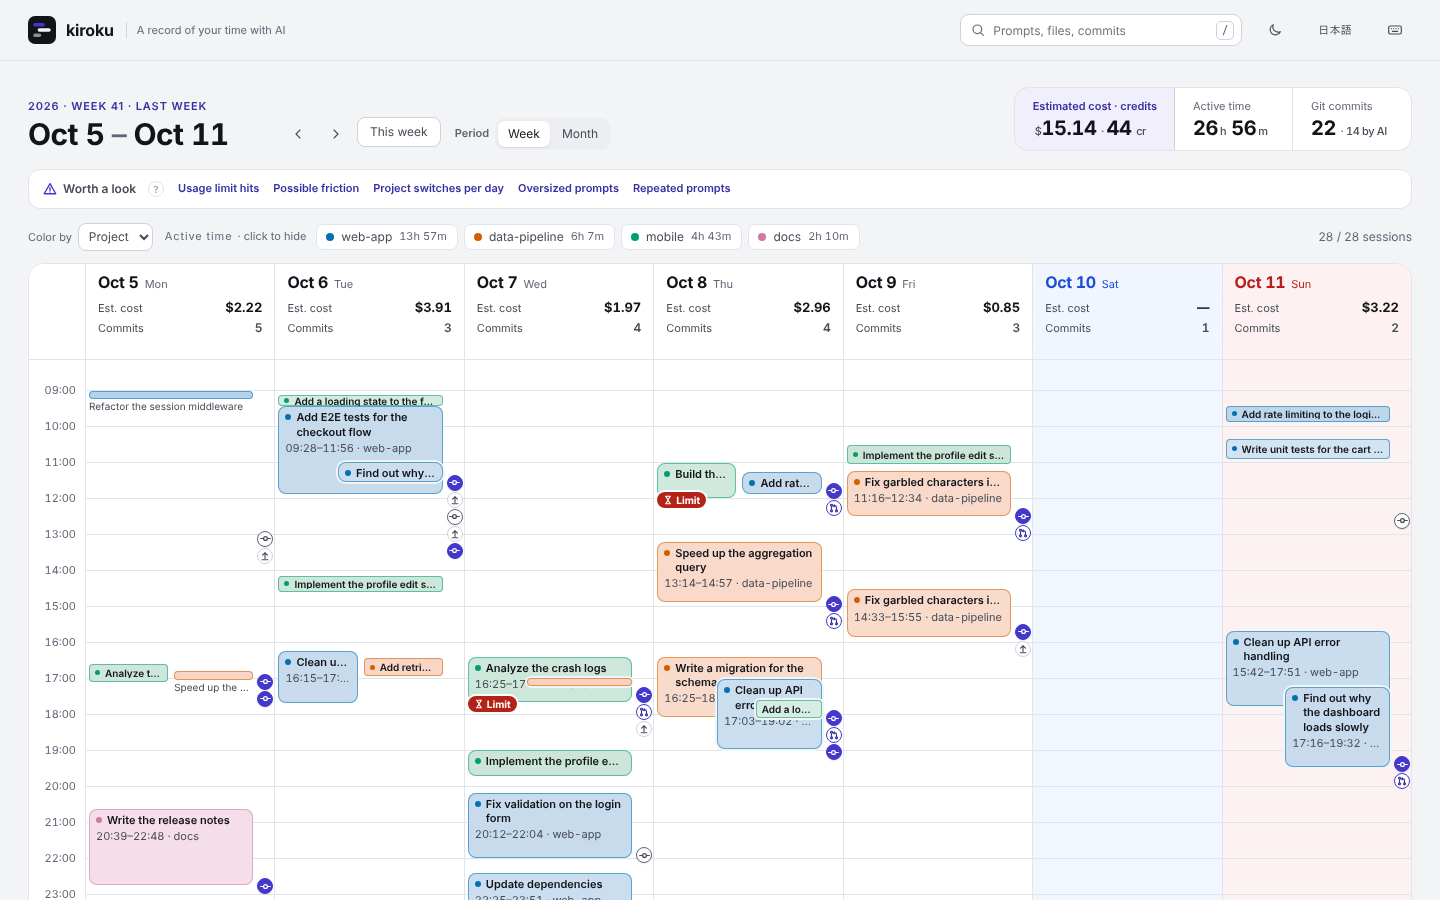
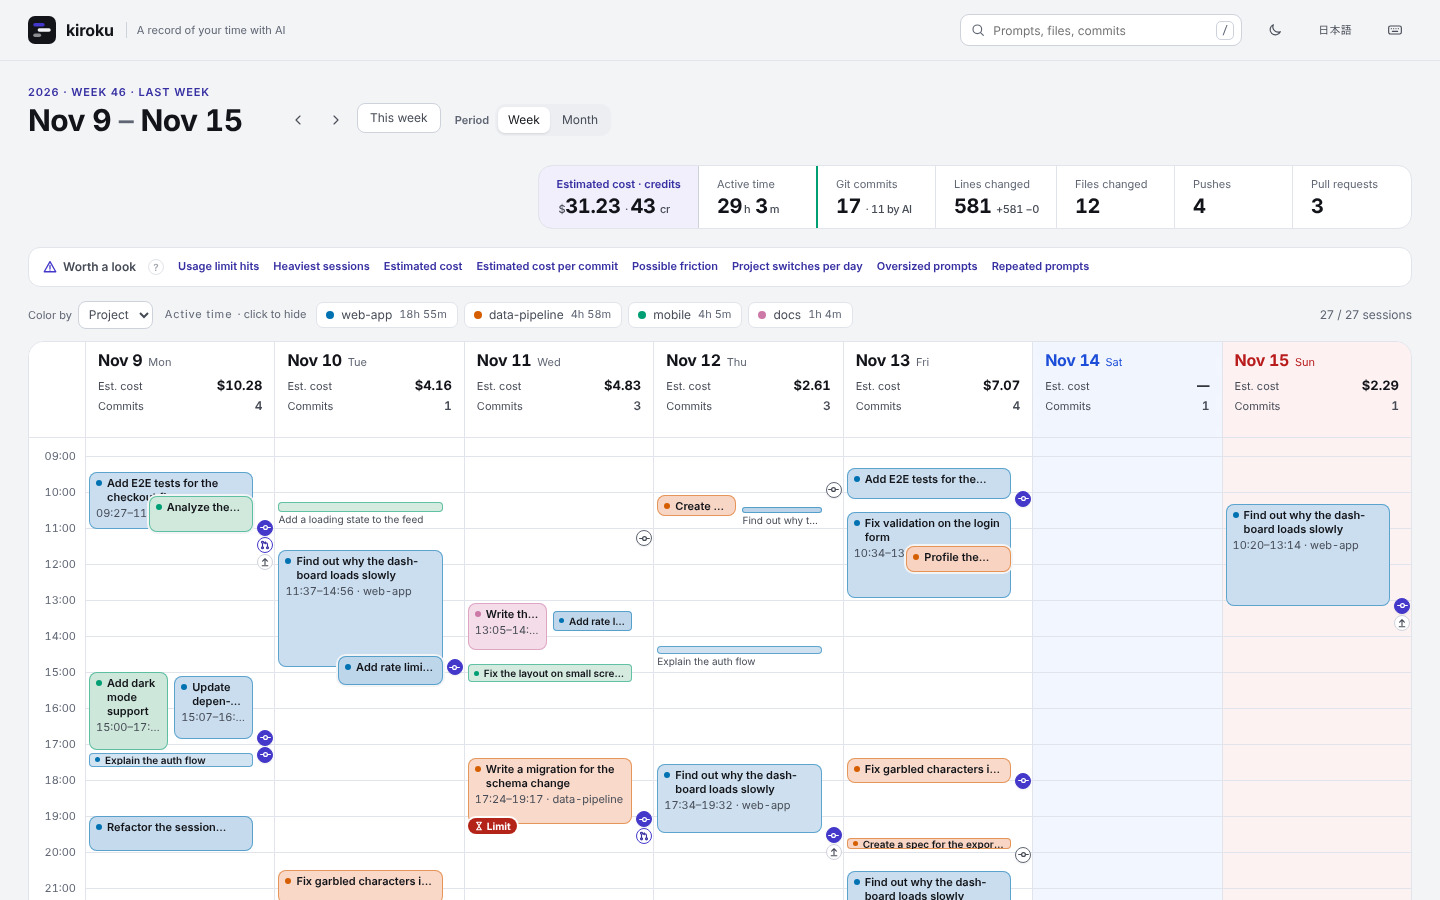
View: outputs in the figures above the calendar, fold the summary from ③
The figures above the calendar show what was left behind (Git or AI
commits, lines, files, pushes, pull requests) to the right of what was
used, after a green divider. In the summary, ③ How you spent time and the
panels after it are folded to their heading by default and remember
being opened; a flagged metric inside a folded panel marks its heading.

diff --git a/internal/web/js/summary.js b/internal/web/js/summary.js
@@ -17,7 +17,7 @@ function summary(){
   R.innerHTML = `${head}<div class="rvgrid">
   ${projectPanel(w, unit)}
   ${outcomePanel(w, pw, unit)}
-  <section class="panel time">${panelH(3, esc(t("How you spent time")), esc(t("When and how long sessions ran")))}
+  ${fold("time", panelH(3, esc(t("How you spent time")), esc(t("When and how long sessions ran"))), `
     <div class="stats">
       ${statH(esc(t("Focus blocks (60+ min)")), times(w.focus.length), longest ? esc(t("Longest {dur}", {dur: dur(longest)})) : "", "focus", w.focus.length ? "focus" : "")}
       ${(() => { const {ws, we} = period(), H = limitHits(ws, we), N = unrecorded(ws, we, "limits"); return N ? norecStat(esc(t("Usage limit hits")), N, "limits") : statH(esc(t("Usage limit hits")), times(H.length), esc(H.length ? H.slice(-4).map(h => h.r ? t("{time} (resets {r})", {time: `${md(h.t)} ${hm(h.t)}`, r: h.r}) : `${md(h.t)} ${hm(h.t)}`).join(TSEP()) + (H.length > 4 ? TSEP() + "…" : "") : t("From Claude Code, Codex and Kiro Crew history")), "limits", H.length ? "limits" : ""); })()}
@@ -30,19 +30,20 @@ function summary(){
       ${statH(esc(t("Parallel time")), dur(w.parallel,true), esc(t("Up to {n} at once", {n: w.maxConc})), "parallel", w.parallel ? "parallel" : "")}
       ${statH(esc(t("Wait time (median)")), secsH(w.waitMedian), esc(t("{replies} · 90th percentile {p}", {replies: plural(w.waitCount, "reply", "replies"), p: secs(w.waitP90)})), "wait", w.waitCount ? "wait" : "")}
       ${statH(esc(t("Total AI run time")), dur(w.ai,true), esc(t("Includes parallel runs")), "ai", "ai")}
-    </div>
-    </section>
-  <section class="panel aiuse">${panelH(4, esc(t("How you used AI")), esc(t("Cache, models and heavy sessions")))}
+    </div>`)}
+  ${fold("aiuse", panelH(4, esc(t("How you used AI")), esc(t("Cache, models and heavy sessions"))), `
     ${aiUsage(w, pw, unit) || noneH(esc(t("No token or credit records.")))}
-    ${nativeSection(w)}</section>
-  <section class="panel shape">${panelH(5, esc(M ? t("Shape of the month") : t("Shape of the week")), esc(t("Friction and repeated prompts")))}
+    ${nativeSection(w)}`)}
+  ${fold("shape", panelH(5, esc(M ? t("Shape of the month") : t("Shape of the week")), esc(t("Friction and repeated prompts"))), `
     ${w.friction.length ? secH(esc(t("Possible friction")), "friction") : ""}
     ${w.friction.length ? w.friction.map(f => sesCardH(sesById(f.id, f.title), `${sesMeta(f)} ${whyOf(f).map(x=>`<span class="tagx">${esc(x)}</span>`).join("")}`)).join("") : ""}
     ${repeatsOf(period().ws, period().we).length ? secH(esc(t("Repeated prompts")), "repeats") : ""}
     ${(() => { const {ws, we} = period(), RP = repeatsOf(ws, we); return RP.length ? RP.slice(0, 3).map(c => { const v = {n: c.n, s: c.ids.size, day: md(c.last)}; return sesCardH(sesById(c.id, snipOf(c.text, 90)), esc(M ? t("{n} times in {s} sessions this month · last on {day}", v) : t("{n} times in {s} sessions this week · last on {day}", v))); }).join("") : ""; })()}
-    ${w.friction.length || repeatsOf(period().ws, period().we).length ? "" : noneH(esc(t("No sessions with possible friction and no repeated prompts.")))}</section>
+    ${w.friction.length || repeatsOf(period().ws, period().we).length ? "" : noneH(esc(t("No sessions with possible friction and no repeated prompts.")))}`)}
   <section class="panel metap">${measure(w)}${foot()}</section></div>`;
   placeFlags(R, F);
+  R.querySelectorAll("details.fold").forEach(d => { d.ontoggle = () => store.set("fold:" + d.dataset.fold, d.open); // 開け閉めを覚える
+    d.querySelector("summary").addEventListener("click", e => { if (e.target.closest(".hb, .fmark")) e.preventDefault(); }); }); // 見出しの「?」と印は、開け閉めしない
   R.querySelectorAll(".card,.fses").forEach(c => c.onclick = () => select(c.dataset.id));
   WK.querySelectorAll("[data-goto]").forEach(b => { b.setAttribute("aria-haspopup", "dialog"); b.onclick = () => openWorth(b.dataset.goto, b); });
   R.querySelectorAll(".fmark").forEach(b => b.onclick = () => openWorth(b.dataset.goto, b));
@@ -56,6 +57,9 @@ function summary(){
   bindCopy(R); bindCopy(RB); bindHelp(R); bindHelp(WK); bindReport(R);
   if (hpopFor && !hpopFor.isConnected) hideHint(); // 描き直しで、説明を開いた ? が消えた
 }
+/* ③ 時間の使い方から下のパネルは、既定で閉じる（ページの主役はカレンダー。開けたものは開けたまま覚える）。
+   閉じたパネルの中に基準を超えた指標があれば、placeFlags が見出しに印を出す */
+const fold = (key, head, body) => `<details class="panel fold ${key}" data-fold="${key}"${store.get("fold:" + key, false) ? " open" : ""}><summary>${head}${ico("caret", "fcar")}</summary>${body}</details>`;
 /* 期間の言い方（unit は "週" か "月"） */
 const uThis = unit => unit === "月" ? "this month" : "this week";
 const uLast = unit => unit === "月" ? "last month" : "last week";

diff --git a/internal/web/js/calendar.js b/internal/web/js/calendar.js
@@ -101,7 +101,7 @@ function kpis(){
     return kpi(all ? t(M ? "Past last month's total" : "Past last week's total") : t(M ? "A day to match last month" : "A day to match last week"), v,
       all ? t(M ? "Last month's total was {v}" : "Last week's total was {v}", {v: ref}) : t(M ? "To stay at last month's total of {v}, for the {n} left" : "To stay at last week's total of {v}, for the {n} left", {v: ref, n: plural(pc.left, "day")}), "key", pc.cost ? "pace" : "paceCr"); };
   const pace = pj ? t("If the pace of the first {n} days continues", {n: pj.days}) : "";
-  // 帯は日々の判断に使う 5 つ前後だけ：使用量（推定費用とクレジット）・前の期間並みの 1 日の目安・月末の推定（月）・稼働時間・残したもの（コミット）。
+  // 帯は日々の判断に使う数だけ：左に使ったもの（推定費用とクレジット・前の期間並みの 1 日の目安・月末の推定（月）・稼働時間）、右に残したもの（outK）。
   // 稼働日・セッション / プロンプト・利用上限への到達は振り返りの数なので、サマリーと「見直す候補」に任せる（帯が多いとカレンダーと主役を争う）。
   // 推定費用とクレジットは別の枠の使用量なので足さずに、1 つの枠に「 · 」で並べる。トークンは推定費用を出せないときだけ
   const c = u.tokens ? costOf(u) : null, two = (a, b) => [a, b].filter(Boolean).join(`<small> · </small>`);
@@ -112,11 +112,22 @@ function kpis(){
     (pc ? paceK() : "") +
     (pjV ? kpi(t(pj.cost != null && pj.credits != null ? "Month-end (estimate)" : pj.cost != null ? "Month-end cost" : "Month-end credits"), pjV, pace, "key", pj.cost != null ? "projection" : "projectionCr") : "") +
     kpi(t("Active time"), dur(w.active, true), n0 == null ? "" : M ? t("{days} of the {n} so far (this month is still in progress)", {days, n: plural(nd, "day")}) : t("{days} of the {n} so far (this week is still in progress)", {days, n: plural(nd, "day")}), "", "active") +
-    (w.git && w.git.commits ? kpi(t("Git commits"), `${w.git.commits}<small> · ${esc(t("{n} by AI", {n: w.git.ai}))}</small>`, "", "", "commits") :
-     w.outputs && w.outputs.commits ? kpi(t("AI commits"), `${w.outputs.commits}`) : "");
+    outK(w, kpi);
   K.querySelectorAll("[data-metric]").forEach(b => b.onclick = () => openMetric(b.dataset.metric, b));
 }
 
+/* 帯の右側：残したもの（アウトプット）。コミット・変えた行・ファイル・push・PR。git を読めないときは AI のコミットだけ。
+   左の使ったもの（費用・稼働時間）と並べて、使った分が何か残したかを、カレンダーを見る前に 1 行で */
+function outK(w, kpi){
+  const g = w.git && w.git.commits ? w.git : null, o = w.outputs || {}, G = periodGit(), n = commas, out = "out";
+  return [
+    g ? kpi(t("Git commits"), `${g.commits}<small> · ${esc(t("{n} by AI", {n: g.ai}))}</small>`, "", out, "commits") : o.commits ? kpi(t("AI commits"), `${o.commits}`, "", out, "aiCommits") : "",
+    g ? kpi(t("Lines changed"), `${n(g.added + g.removed)}<small> +${n(g.added)} −${n(g.removed)}</small>`, "", out, "lines") : "",
+    g && G.files ? kpi(t("Files changed"), n(G.files), "", out, "files") : "",
+    G.pushes ? kpi(t("Pushes"), `${G.pushes}`, "", out, "pushes") : "",
+    o.prs ? kpi(t("Pull requests"), `${o.prs}`, "", out, "prs") : "",
+  ].join("");
+}
 /* カレンダーの各日（月表示では各週も）に並べるのは 2 つだけ：使用量（推定費用。見積もれないならトークン、トークンがなければクレジット）と Git のコミット。
    費用と残したものを上下に並べ、費用が増えても残したものが増えていない日を、カレンダーを見るだけで拾えるようにする。
    作業時間は週では帯の長さ・月ではマスの濃さ、セッションは帯の数で見えるので、数は日のツールチップに（トークン・クレジットも）。

diff --git a/internal/web/style.css b/internal/web/style.css
@@ -93,6 +93,7 @@ kbd{font:var(--fs-xs)/1 var(--mono);padding:3px 5px;border-radius:5px;border:1px
 .kpi.key{background:var(--acc-soft)} /* いちばん大事な数（トークン・目安コスト・月末の推定・クレジット） */
 .kpi.key .k{color:var(--acc-ink);font-weight:600}
 .kpi.key+.kpi:not(.key){border-left-color:var(--rule-2)}
+.kpi:not(.out)+.kpi.out{border-left:2px solid var(--c2)} /* 使ったもの（左）と残したもの（右）の境目。サマリーの「残したもの」と同じ緑 */
 button.kpi{text-align:left;transition:background .15s var(--ease)} /* 押すと内訳（metric.js） */
 button.kpi:hover{background:var(--surface-2)}button.kpi.key:hover{background:color-mix(in oklab,var(--acc) 18%,var(--surface))}
 button.kpi:focus-visible{outline:2px solid var(--acc);outline-offset:-2px}
@@ -298,6 +299,16 @@ a.pill{display:inline-flex;align-items:center;text-decoration:none}
 
 .pout{font-size:var(--fs-sm);font-variant-numeric:tabular-nums;color:var(--ink)}.pout span{color:var(--ink-3)}
 .panel.metap{grid-column:1/-1}
+/* ③ から下の折りたたみのパネル。閉じていれば見出しの 1 行だけ。横いっぱいに積む */
+.panel.fold{grid-column:1/-1;padding-top:14px;padding-bottom:14px}
+.panel.fold>summary{display:flex;align-items:center;gap:10px;cursor:pointer;list-style:none;border-radius:8px}
+.panel.fold>summary::-webkit-details-marker{display:none}
+.panel.fold>summary .ph{flex:1;margin:0;min-width:0;flex-wrap:wrap}
+.panel.fold>summary .fcar{flex:none;width:14px;height:14px;stroke:var(--ink-3);fill:none;stroke-width:1.8;transition:transform .2s var(--ease)}
+.panel.fold[open]>summary .fcar{transform:rotate(90deg)}
+.panel.fold>summary .fcar{order:2}
+.panel.fold[open]{padding-bottom:22px}.panel.fold[open]>summary{margin-bottom:10px}
+.panel.fold>summary:focus-visible{outline:2px solid var(--acc);outline-offset:4px}
 .panel.metap .foot{margin-top:12px} /* 計測の状態と生成時刻：ページのいちばん下 */
 .dsrc summary{display:flex;align-items:center;gap:8px;cursor:pointer;list-style:none}.dsrc summary::-webkit-details-marker{display:none}
 .dsrc .dsc{width:12px;height:12px;stroke:var(--ink-3);fill:none;stroke-width:1.8;transition:transform .2s var(--ease)}.dsrc[open] .dsc{transform:rotate(90deg)}

diff --git a/docs/guide.md b/docs/guide.md
@@ -71,9 +71,10 @@ The old forms `kiroku --serve`, `--json`, `-o` and `--weekly` / `--monthly` have
   - Active time shows as the length of the bars in the week calendar, and as the shading in the month calendar (thin bars show the project breakdown). Point at a day or week for its active time, sessions, tokens, estimated cost and credits
   - In a week in progress, each day still to come in the week calendar shows "To match" in a dashed box: about how much a day keeps the week at last week's total (see "A day to match the last period" in the metrics table)
 - The calendar describes recorded activity, not progress, completion or productivity
-- Above the calendar, five figures at most, for deciding what to do next (see the metrics table). Items with no records are not shown; when the figures don't fit next to the period's name, they move to their own row, and continue on a second row rather than being cut off
+- Above the calendar, the figures for deciding what to do next (see the metrics table): what you used on the left, what it left behind on the right. Items with no records are not shown; when the figures don't fit next to the period's name, they move to their own row, and continue on a second row rather than being cut off
   - On a tinted background: usage (estimated cost and Kiro credits side by side in one box, such as "$37.32 · 80 cr"; tokens instead of the cost when no model used is in the price table), A day to match last week (or month) while the week or month is in progress, and Month-end (estimate) in the month view while the month is in progress. A box that shows both cost and credits opens the cost's breakdown, which links to the credits' breakdown
-  - Then Active time and Git commits with how many AI ran, such as "22 · 14 by AI"
+  - Then Active time
+  - After a green divider, what it left behind: Git commits with how many AI ran (such as "22 · 14 by AI"; AI commits when no Git repository could be read), lines changed, files changed, pushes and pull requests created
   - Prompts (with sessions) and usage limit hits are in the summary and open the same breakdowns from there; limit hits are also in "Worth a look". Active days are in the Active time breakdown
 - Click a key figure, or any figure in the summary's panels, to open its breakdown in a dialog. What the metric counts is right under the figure; the finer points and what it doesn't tell you are at the end:
   - Most figures: by day, by agent, by project and, for tokens and estimated cost, by model, then the top sessions (press one to open its details). The day, agent, project and model rows come from the same totals as the figure, so they add up to it; the session figures cover each whole session, including any part outside the period
@@ -102,7 +103,7 @@ The old forms `kiroku --serve`, `--json`, `-o` and `--weekly` / `--monthly` have
   - A session's "Files edited by AI": a file changed by a commit made during that session opens the page for that file as of that commit
   - A session's "Pull requests created": opens pull requests created by AI (URLs that appeared in the results of `gh pr create` or GitHub tools)
   - A session's "History file": opens the original history of that session. In `kiroku serve`, "Open" saves it from the view (only history files of loaded sessions, inside the folders kiroku reads history from or `kiroku archive`'s folder, are served, and only to the view on your machine); in `kiroku html` it opens via `file://`. SQLite histories cannot be opened, so you can only copy the path
-- Below the calendar, the weekly and monthly summary is shown
+- Below the calendar, the weekly and monthly summary is shown. ① and ② are open; ③ and the panels after it are folded to their heading (the calendar is the main view). Press a heading to open it; kiroku remembers which ones you opened. A folded panel that holds a metric past its threshold shows the warning triangle on its heading
   - Worth a look: a metric that crossed a threshold has a small warning triangle next to its name in the summary; press it to open the same dialog as "Worth a look" above. Its 8-week trend (8 months in month view) starts at the first period with records, labels that period and the one shown with their values, and says whether higher or lower is worth a look. A metric is flagged by a fixed threshold, shown right under the headline in the dialog ("Threshold: 1+ hit"), not by being high or low within its trend. To see whether something you tried worked, check the trend in later periods
   - ① By project: starts with bars and a table showing what share of active time, tokens, estimated cost and credits went where (top 5 plus Other). The grouping follows "Color by" in the legend. Comparing the rows shows, for example, a project, branch or agent whose share of estimated cost is larger than its share of time. Below that, the cards show, for each project, its active time, sessions and prompts, tokens, estimated cost and credits, and what it left behind (beyond 6 projects, press "Show N more projects"). Models and the heaviest sessions are in ④
   - ② Cost and outputs: Cost (active time, prompts, estimated cost, tokens, credits) → what it left behind (Git commits with how many AI ran, lines changed with the average per Git commit, files changed, pushes, and pull requests when an agent created one), side by side under the heading "Left behind". Below them, "Compared" holds the two metrics that divide one side by the other (estimated cost per commit and sessions that reached a commit or PR), each showing what was divided by what. Lines, files and pushes come from git, so they only appear when git commits were read, and when no git repository could be read the side says so and shows "AI commits" in place of "Git commits"; files changed counts up to 40 files per commit and says "at least" when a commit had more. Credits are shown as whole numbers

diff --git a/changes/top-outputs-fold.changed.md b/changes/top-outputs-fold.changed.md
@@ -1,0 +1,2 @@
+- The figures above the calendar show what was left behind on the right of what was used: Git commits (or AI commits), lines changed, files changed, pushes and pull requests, each opening its breakdown
+- In the weekly and monthly summary, ③ How you spent time and the panels after it are folded to their heading by default, so the calendar stays the main view. kiroku remembers the ones you open, and a folded panel with a metric past its threshold shows the warning triangle on its heading
